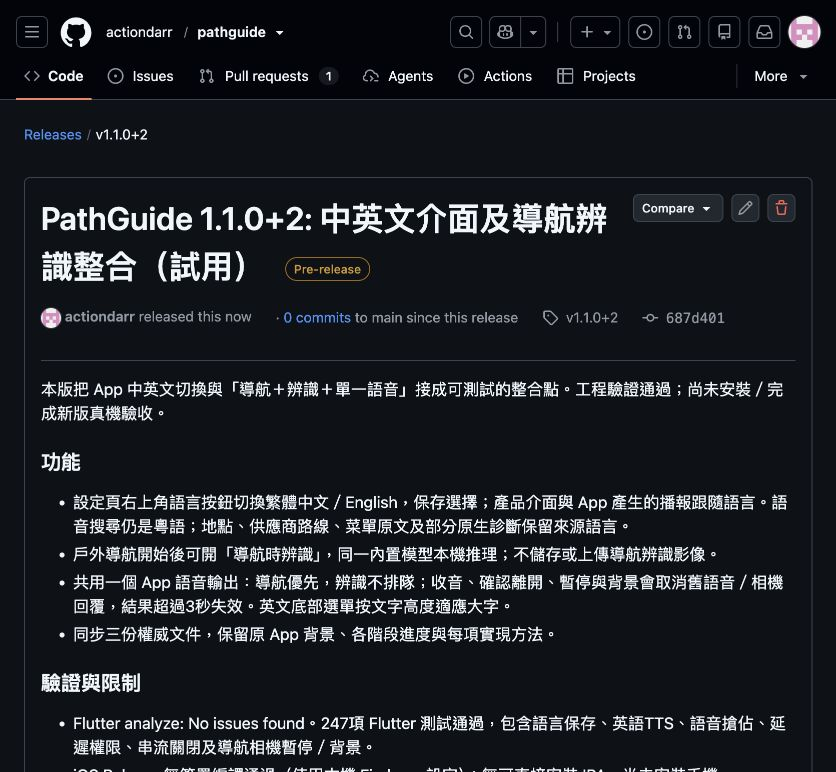
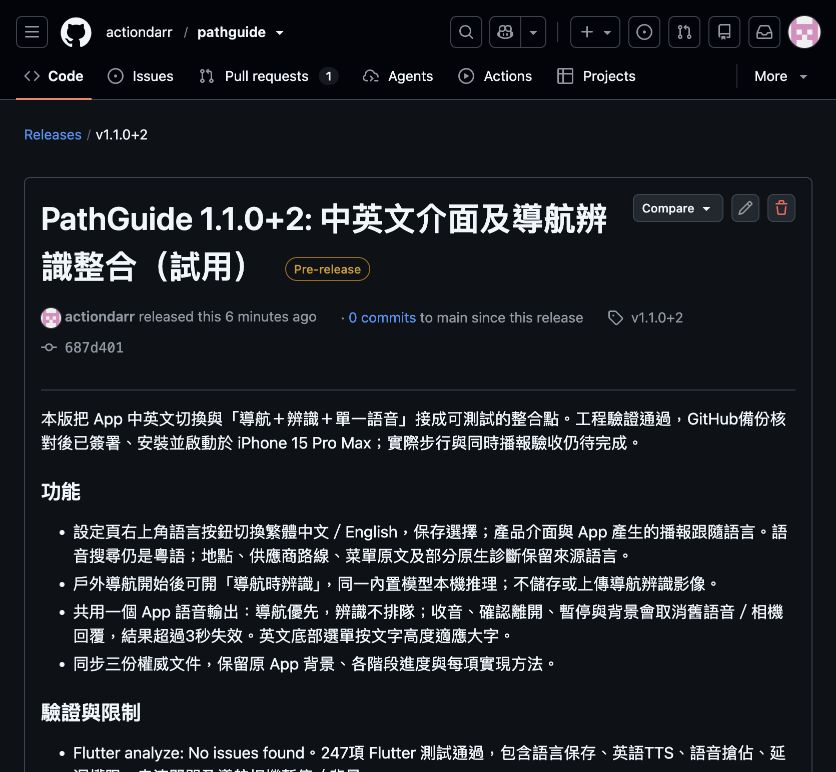
Record signed iPhone installation and launch after verified GitHub backup

Changed region(s): [[0.0311, 0.4663, 0.933, 1.0], [0.2799, 0.4041, 0.8708, 0.4352], [0.0622, 0.4352, 0.1555, 0.4663]]

diff --git a/docs/FRONTEND-DESIGN.zh-HK.md b/docs/FRONTEND-DESIGN.zh-HK.md
@@ -48,7 +48,7 @@ S5的圖示訓練可與S2、S4並行準備；私人訓練必須先有S0品質基
 | 階段 | 本階段前端工作 | 目前進度 | 完成標準 | 下一步／依賴 |
 |---|---|---|---|---|
 | S0 工程基線與版本保存 | 固定App／模型版本、設定及回退方式 | 本版1.1.0+2完成程式／模型核對；分支、不可變tag與prerelease按版本程序保存，真機驗收未齊 | 同一版本能以相符模型重建，GitHub備份後才安裝 | 與Backend完成共用版本；Dataset提供品質與雜湊 |
-| S1 現有App核心功能 | 辨識、語音、首頁、Google帳號、聯絡、菜單、戶外導航 | 中英文＋導航辨識共用語音已有程式；247項Flutter測試通過，未簽署iOS Release編譯通過；真機細項未齊 | VoiceOver／大字／權限／背景與實際操作逐項通過 | 補HKDI及戶外真機清單，不把測試替身當實走 |
+| S1 現有App核心功能 | 辨識、語音、首頁、Google帳號、聯絡、菜單、戶外導航 | 中英文＋導航辨識共用語音已有程式；247項Flutter測試通過，iOS Release簽署／安裝及啟動通過；真機細項未齊 | VoiceOver／大字／權限／背景與實際操作逐項通過 | 補HKDI及戶外真機清單，不把測試替身當實走 |
 | S2 照片收集與管理員覆核 | 同意、回報、抽樣、待傳及覆核狀態 | iPhone擷取／加密佇列已有程式；照片開關關閉，雲端未接通 | 本人同幀照片可到覆核佇列；拒絕、撤回、斷網及切帳號正確 | Backend部署／App Check與Dataset覆核流程 |
 | S3 私人訓練與模型更新 | 我的模型、學習進度、更新同意及回退 | 尚未接通；付費GPU預算未定 | 收集到更新可完整演練；不合格不更新，閒置切換可回退 | 先接模擬worker及registry，再按預算開真實GPU |
 | S4 室內近距離感知與引導 | ARKit、深度融合、鳥瞰、眼前短路徑及語音 | 未開始；首版限現有Pro Max／HKDI固定路段 | 未知區不畫通路，失效撤回；固定場景與效能測試通過 | 先同幀影像／深度，再幾何、追蹤、畫面及路徑 |
@@ -217,10 +217,10 @@ flutter test
 | 證據 | 已知結果與限制 |
 |---|---|
 | 2026-10-27 1.1.0+2 Flutter | analyze無問題；247項測試通過，包括語言保存、英文TTS、語音優先、延遲權限與導航相機暫停／背景；不是準確率或實走 |
-| 同版iPhone編譯 | `flutter build ios --release --no-codesign --no-pub --dart-define-from-file=config/firebase.local.json`通過；無簽署、未安裝，語音／相機同時運作仍須真機驗收 |
+| 同版iPhone編譯 | `flutter build ios --release --no-codesign --no-pub --dart-define-from-file=config/firebase.local.json`通過；其後以現有開發簽署建置、系統簽章核對、iPhone 15 Pro Max安裝及啟動亦通過；語音／相機同時運作仍須真機驗收 |
 | 同日既有導航工程紀錄 | 6項導航原生測試、analyze及簽署建置／安裝有通過紀錄；本次文件整併未重跑 |
 | 手機／實地 | 使用者曾回報基本戶外步行正常；新版逐項VoiceOver、定位恢復、背景、收藏、偏離及終點驗收仍待 |
-| 發佈／回退 | 1.1.0+2分支、不可變tag及試用Release已保存／核對；另有整合前還原點，未安裝手機。見Backend第7節及發佈核對紀錄 |
+| 發佈／回退 | 1.1.0+2分支、不可變tag及試用Release已保存／核對；另有整合前還原點；遠端核對後已安裝／啟動iPhone 15 Pro Max。見Backend第7節及發佈核對紀錄 |
 
 下一輪需記錄：VoiceOver與兩倍文字、拒絕權限、五次粵語查詢、背景／來電／耳機、GPS不足／斷網／偏離；HKDI不同路況各三次及三十分鐘耗電。室內另測行人橫過、轉角、玻璃、暗光、持機偏轉及失效撤回；工程目標場景≥10 Hz、p95延遲≤500 ms，尚未實測。
 
@@ -238,3 +238,5 @@ flutter test
 2026-10-27參考產品補充：以官方公開資料比較瞰見聆境，清楚標示未實測／未知實現；新增F19–F23候選方法、依賴與驗收，不改現有功能狀態或將研究自動升格首版範圍。本輪未安裝／操作第三方App、未新增App功能。
 
 2026-10-27整合版：1.1.0+2新增中英文介面／保存與英語TTS，導航頁可開本機辨識並經SpeechCoordinator共用語音；相機及語音按權限／收音／確認／背景世代取消，結果3秒失效。247項測試與未簽署iOS編譯通過，真機／graph回放／ARKit深度／空間音效未驗收；補距離量測定義與實測方法。共用十類試驗權重按原有試用要求保存，沒有重新訓練或提升品質宣稱。
+
+2026-10-27安裝核對：先完成GitHub分支／tag／prerelease及模型核對，才以現有設定簽署1.1.0+2；正常系統信任服務下codesign驗證通過，安裝及啟動iPhone 15 Pro Max成功。安裝曾遇一次CoreDevice連線重設，重查裝置後重試成功。這只證明交付／啟動，未實測步行、同時播報、耗電、graph或深度。

diff --git a/docs/BACKEND-DESIGN.zh-HK.md b/docs/BACKEND-DESIGN.zh-HK.md
@@ -38,7 +38,7 @@ S5的圖示訓練可與S2、S4並行準備；私人訓練必須先有S0品質基
 | B09 本人下載、自動更新與回退／S3 | 未接通 | 新增本人模型offer與限時下載授權；發票前重驗身分／用途／刪除狀態，URL只指向核准物件且不記完整URL日誌。App下載暫存、核對offer、SHA與映射後在任務停止時切換；保留上一版／內置版 | Frontend F08；逾時重取授權，跨UID／不相容／損壞拒絕。已簽網址有有效期，撤回後仍須處理過期窗口與物件清理 |
 | B10 撤回、取消、帳號刪除與到期／S2–S3 | 第四階段清理已有；訓練資源未覆蓋 | 沿用tombstone／deleting，先禁止新上傳／job／下載，取消並等待或隔離worker，再按清單刪照片、annotations、snapshot、外部副本及私人模型，最後Auth；每步可重試並拒絕遲到重建 | 擴充現有deletePhotoAccountData；基礎共用資料不因單UID刪除而誤刪，處理中狀態可理解 |
 | B11 Android搜尋／步行代理／S1 | computeWalkingRoute已有，未部署／驗證 | App Check驗應用，訪客可用；固定Google Routes WALK、HK／繁中與回傳欄位，Secret Manager供金鑰，逾時／配額分類；不接受任意網址代理、不持久保存軌跡 | Google配置、預算、簽署限制及真機；iPhoneMapKit不改走此代理 |
-| B12 發佈、診斷與預算／S0–S6 | 1.1.0+2程式核對通過；分支／tag／prerelease保存，未安裝交付 | 記匿名request／job ID、階段、耗時與錯誤類別，監察心跳、清理積壓、評估失敗與花費；提交前配額／worker時限與預算配置缺一拒絕。App發佈依第7節先GitHub再安裝 | 日誌無照片／私人位置／憑證；告警不等於硬性花費上限；回退演練與版本報告可追溯 |
+| B12 發佈、診斷與預算／S0–S6 | 1.1.0+2程式核對通過；分支／tag／prerelease保存後已安裝／啟動；場測待補 | 記匿名request／job ID、階段、耗時與錯誤類別，監察心跳、清理積壓、評估失敗與花費；提交前配額／worker時限與預算配置缺一拒絕。App發佈依第7節先GitHub再安裝 | 日誌無照片／私人位置／憑證；告警不等於硬性花費上限；回退演練與版本報告可追溯 |
 | B13 室內即時資料邊界／S4 | 未有深度服務，規劃本機處理 | 深度／pose／網格留手機，不新增即時雲端避障API；只提供相容模型與設定。若日後要上傳序列，需獨立用途、保留／刪除及安全設計，不能沿用照片同意 | Frontend F09–F12與Dataset D09；關閉網絡不影響已載入的本機感知 |
 | B14 拓撲graph、觀察序列與場地版本／S7 | 概念討論，未實作 | 先手動node／edge驗證；永久地圖、node內容與行程觀察分開版本化，圖片只產生候選對照。不吻合先保留未知與待覆核，核准後才更新地圖；量測座標／幾何校準及樓層連接後續加入 | F14／D09；不用GPS猜樓層，無場地資料不提供指定課室；場地更新不破壞舊App |
 | B15 路線錄製／場景摘要同步／S7 | 後續構想 | 先本機功能；自願同步才新增UID版本化路標序列與刪除。場景摘要預設本機有效證據，不自動新增雲端影像描述或追蹤紀錄 | F17；另行確認用途與授權，不能因訓練照片同意便錄影／上傳路線 |
@@ -203,3 +203,5 @@ python3 tool/configure_firebase_ios.py /完整路徑/GoogleService-Info.plist
 2026-10-27整合版：App語言只在本機SharedPreferences保存；導航中的辨識不建立照片／observations／深度上傳或新增Cloud API。照片上傳仍關閉，付費GPU仍停用。1.1.0+2包含已核對共用模型；以正常Git備份分支／tag、GitHub網頁建立prerelease，未安裝交付；工程驗證不代表真機／模型精度已通過。
 
 2026-10-27發佈核對：App源碼commit `687d40188c117e7764cd71b063e834b23763682d` 已推至既有分支；以 `git ls-remote` 核對分支及兩個tag的實際commit。[1.1.0+2試用Release](https://github.com/actiondarr/pathguide/releases/tag/v1.1.0%2B2)及[整合前還原點](https://github.com/actiondarr/pathguide/releases/tag/v1.0.0%2B1-baseline)均經正常GitHub網頁建立並核對，沒有抽取憑證。產物含相符源碼／模型與manifest；無簽署IPA，未安裝手機。機器收據：verification/release-receipts/app-1.1.0+2.json。後續文件核對提交不移動App tag。
+
+同日交付核對：GitHub核對後才簽署，包內1.1.0+2、模型SHA與manifest相符；正常系統信任服務簽章驗證、CoreDevice安裝及啟動成功。無IPA公開下載；裝置ID、安裝路徑及簽署資料不寫入公開收據。見verification/release-receipts/app-1.1.0+2.json；App tag與權重沒有變動。
